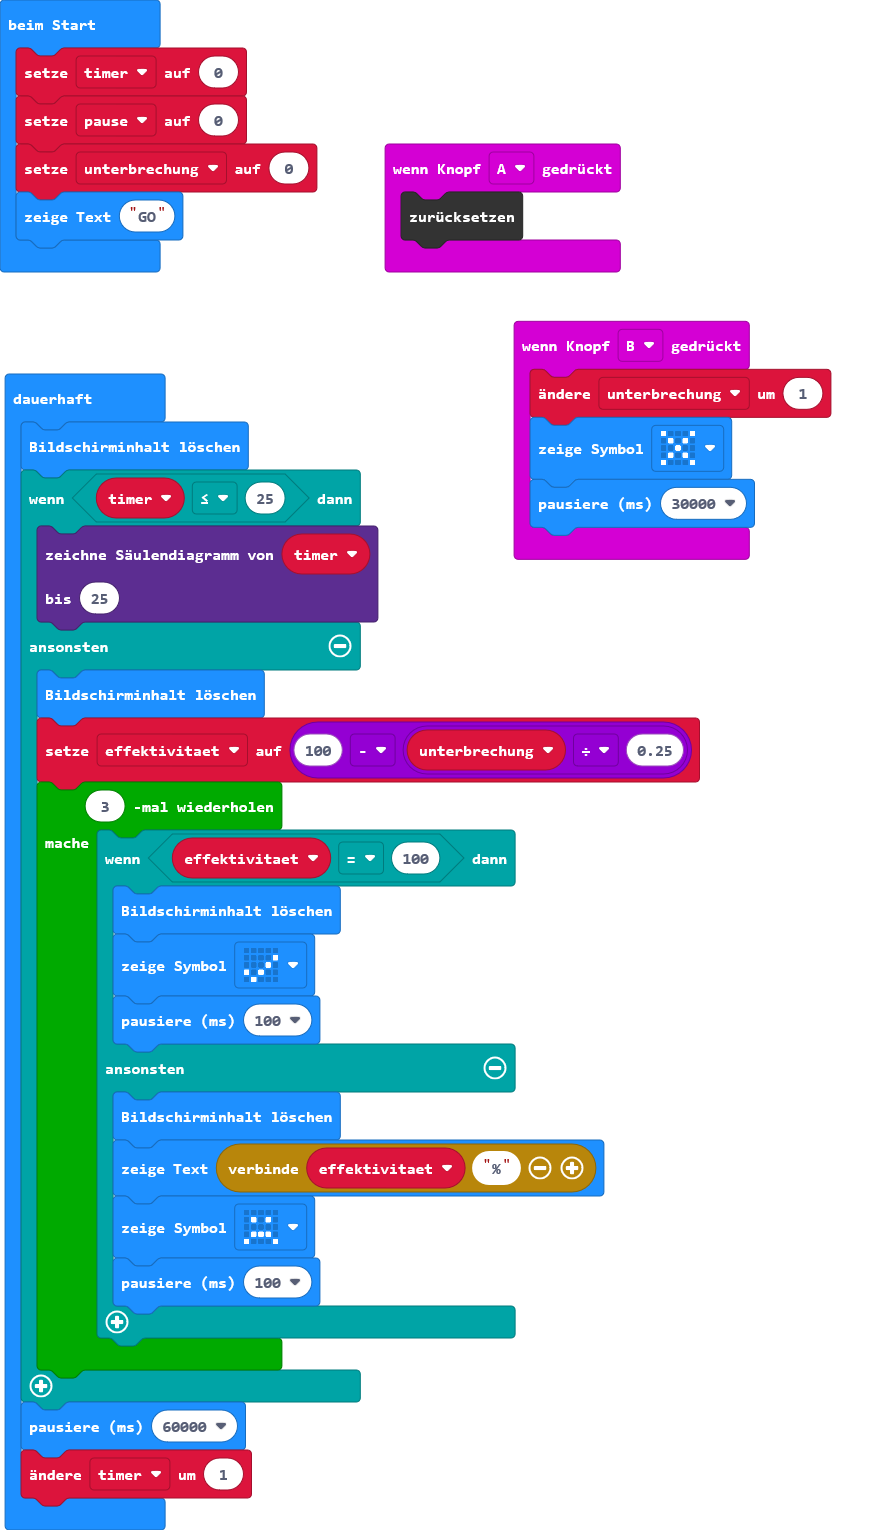
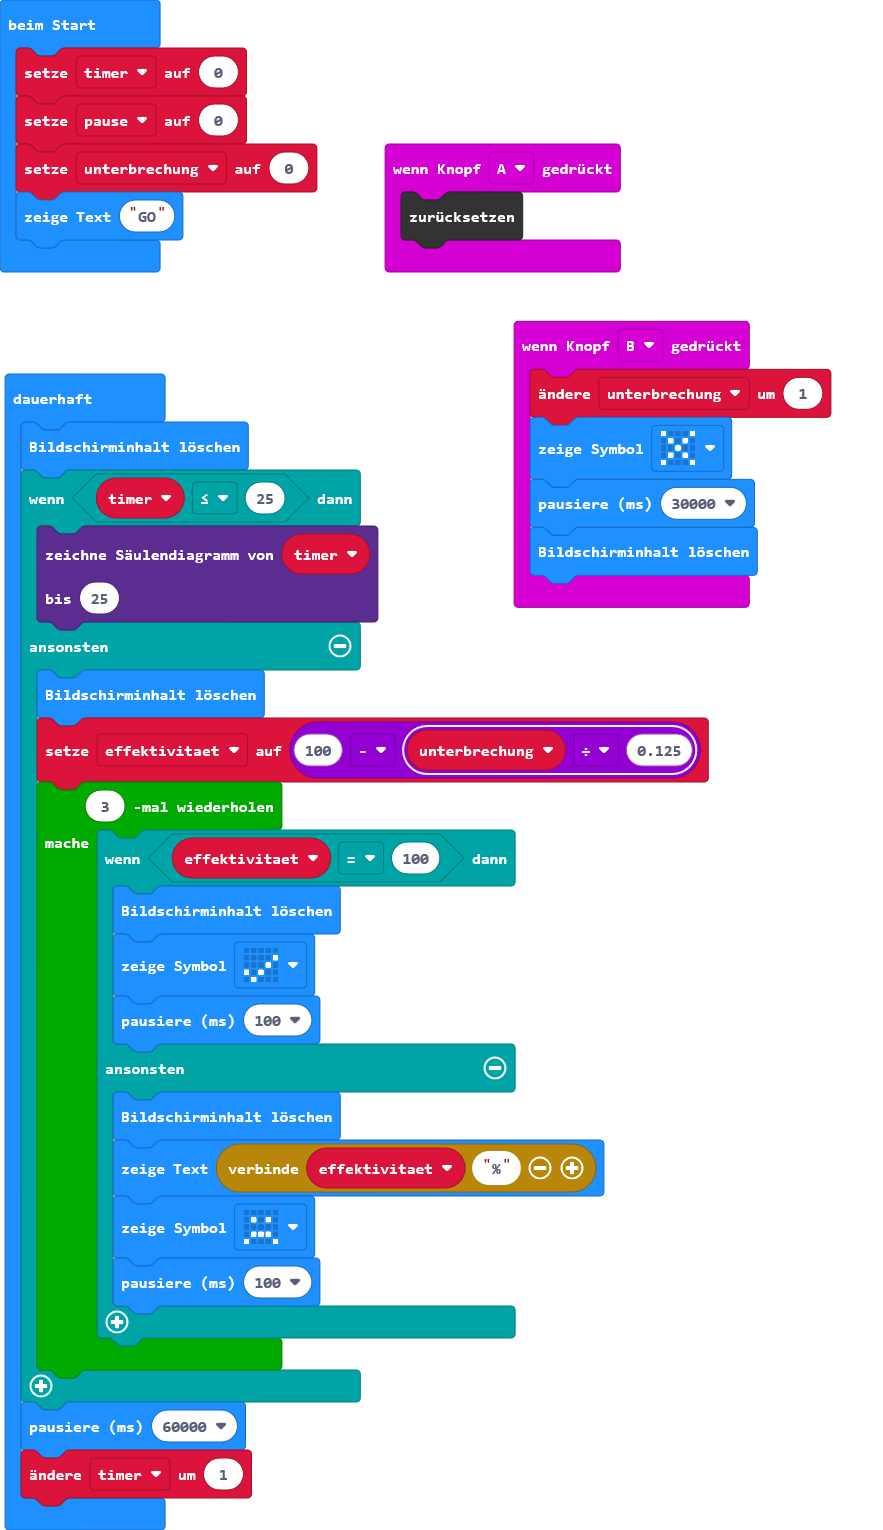
Aktualisiere main.blocks, main.ts

Changed region(s): [[0.581, 0.3379, 0.8562, 0.3993], [0.7339, 0.4608, 0.8256, 0.5222]]

diff --git a/main.ts b/main.ts
@@ -5,6 +5,7 @@ input.onButtonPressed(Button.B, function () {
     unterbrechung += 1
     basic.showIcon(IconNames.No)
     basic.pause(30000)
+    basic.clearScreen()
 })
 let effektivitaet = 0
 let timer = 0
@@ -20,7 +21,7 @@ basic.forever(function () {
         )
     } else {
         basic.clearScreen()
-        effektivitaet = 100 - unterbrechung / 0.25
+        effektivitaet = 100 - unterbrechung / 0.125
         for (let index = 0; index < 3; index++) {
             if (effektivitaet == 100) {
                 basic.clearScreen()
